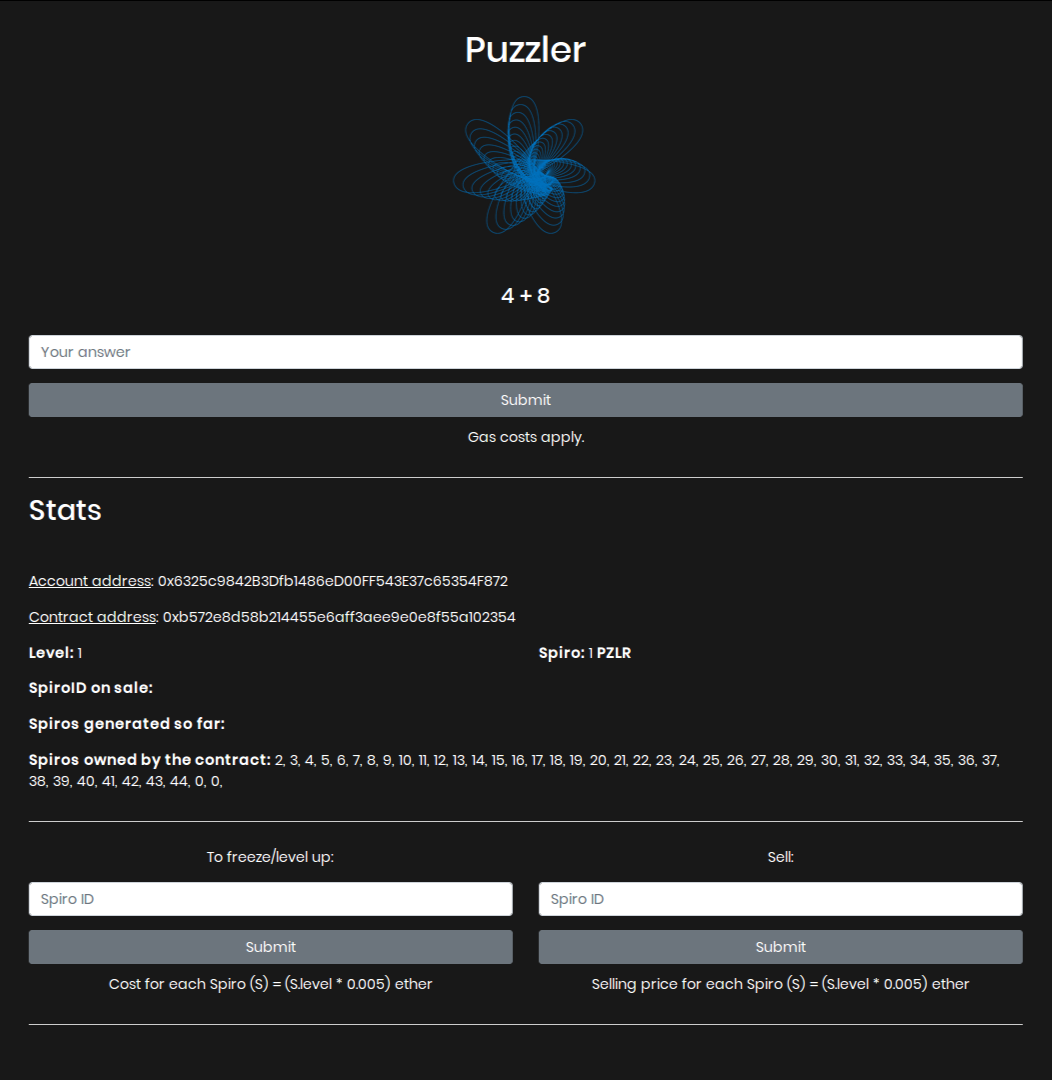
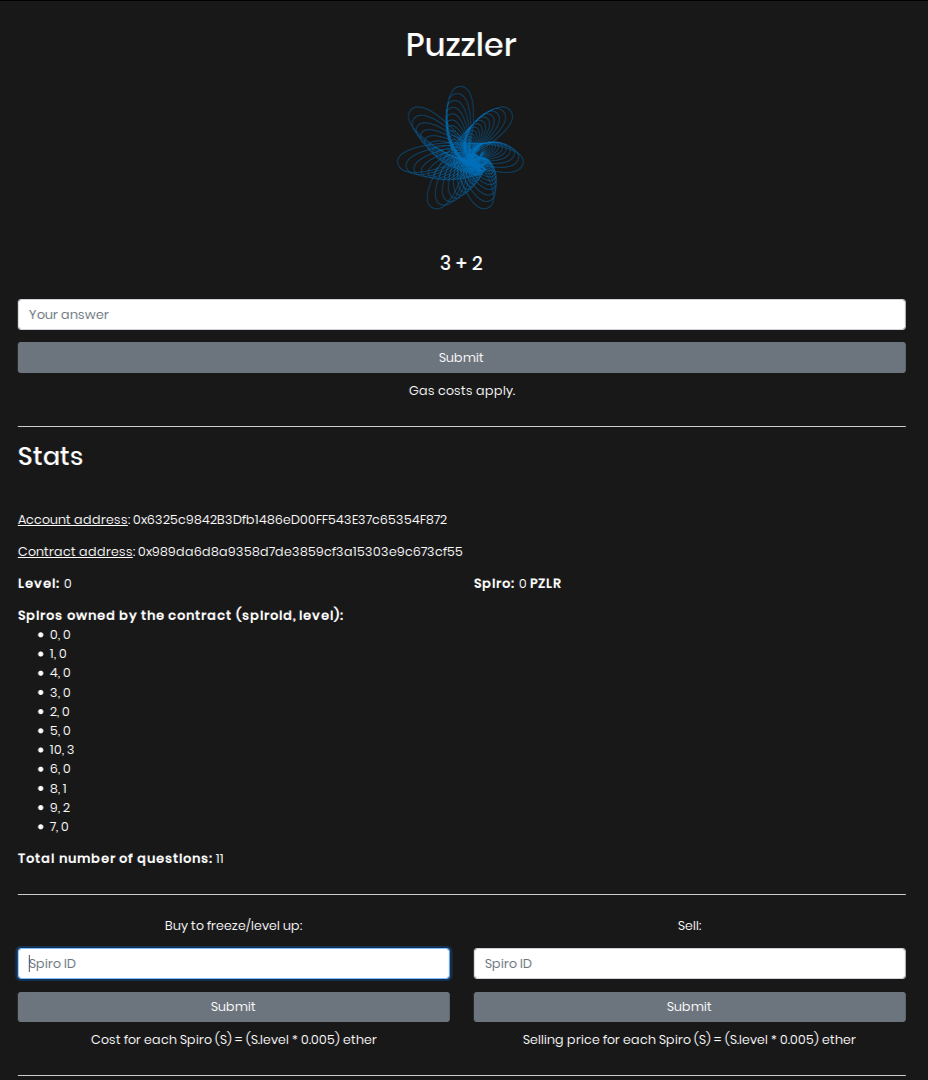
added tldr, changed screenshot

diff --git a/README.md b/README.md
@@ -4,7 +4,8 @@ A simple Ethereum based decentralized application demonstrating usage of ERC-721
 
 ## Description
 
-![Puzzler](./puzzler.png)
+<!-- ![Puzzler](./puzzler.png) -->
+<center><img src="./puzzler.png" height="550" center></center>
 
 - Answering questions would increment the level for the user.
 - Each puzzle solved mints an ERC-721 token (PZLR), which is owned by the smart contract. Called 'Spiro' in the game.
@@ -14,7 +15,6 @@ A simple Ethereum based decentralized application demonstrating usage of ERC-721
 - Stats description: 
   - **Level**: current level (generated on frontend)
   - **Spiro**: spiro associated to the user (queried from the contract)
-  - **Spiros generated so far**: Spiros generated up till now (frontend)
   - **Spiros owned by the contract**: Spiros not owned by any user - can be bought. Displays comma separated tuple of spiroId and corresponding level. (queried from the contract)
   - **Total number of questions**: total number of questions that can be solved (or max level reachable) - picked from a json file
 - User has an option to:
@@ -35,6 +35,10 @@ A simple Ethereum based decentralized application demonstrating usage of ERC-721
     - generates an alert on the page
 - User can buy one of the spiros owned by the contract - to level up.
 - User can sell his/her owned token - would change level and spiro to 0.
+
+## TL;DR
+
+Answer questions to mint Spiro, buy spiro from the contract (corresponding to the level you want to freeze to), sell your spiro (goes back to the contract). 
 
 ## Running Locally
 
